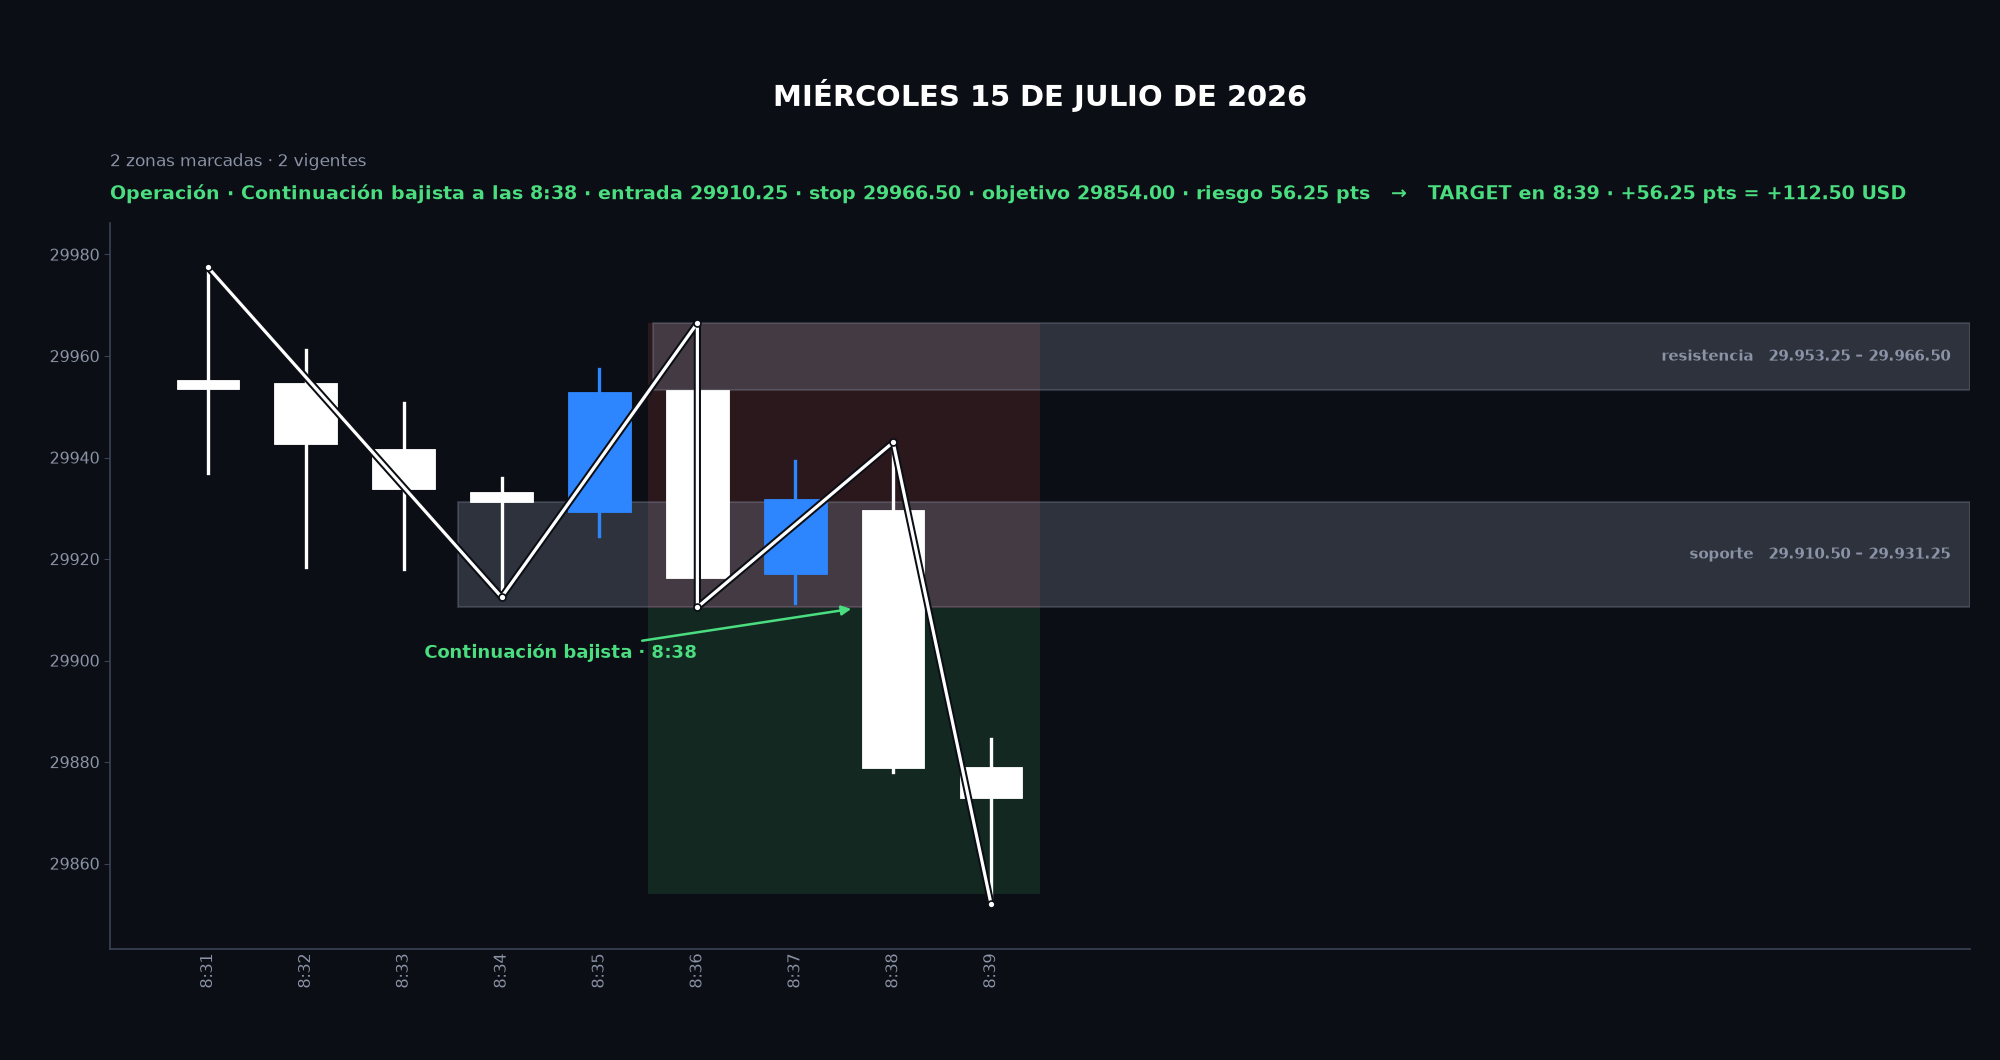
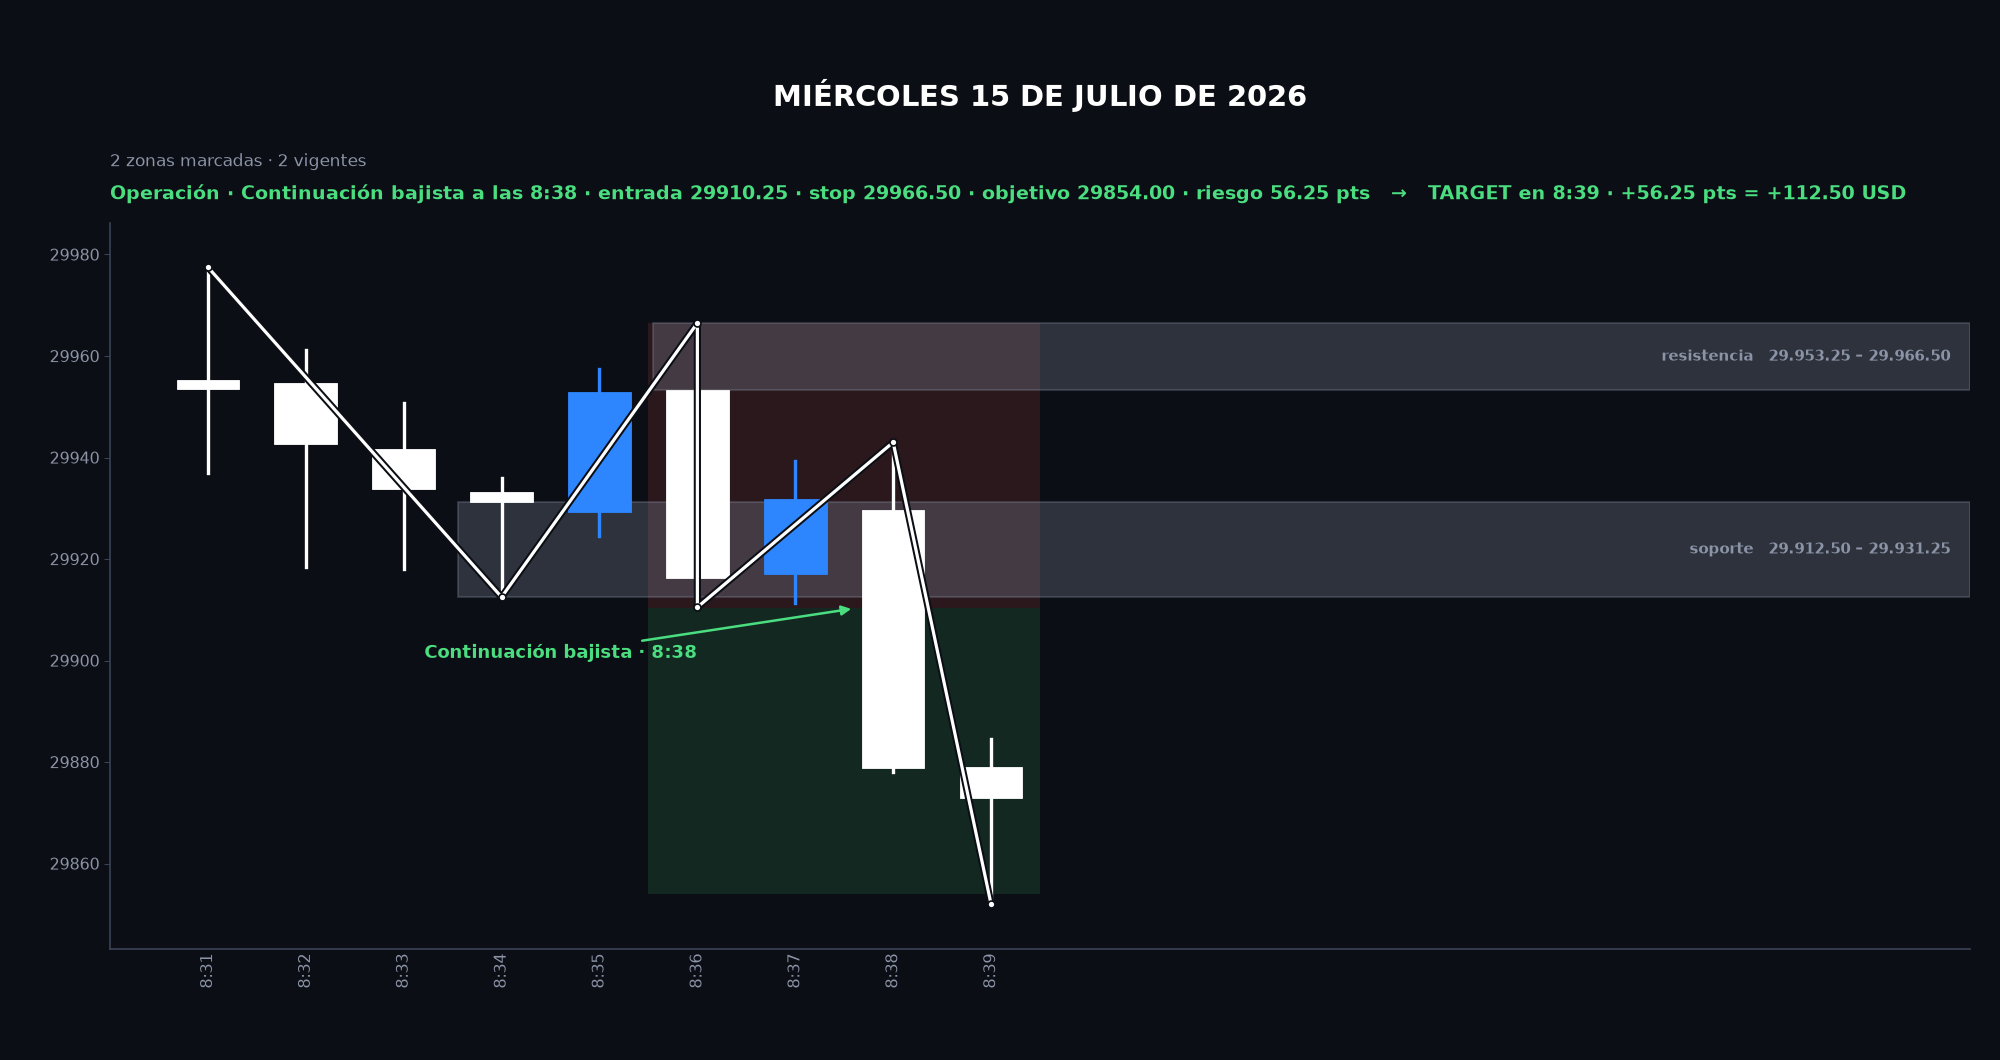
chore(sesiones): el 12 de octubre, y los gráficos que cambian con el arreglo del motor

Changed region(s): [[0.465, 0.5604, 0.992, 0.5915], [0.217, 0.5604, 0.434, 0.5915], [0.837, 0.4981, 0.992, 0.5292]]

diff --git a/docs/historial-proyecto.md b/docs/historial-proyecto.md
@@ -11,6 +11,7 @@
 
 | Fecha | Checkpoint |
 |---|---|
+| 2026-11-02c | El 12/10 en la galería; el motor ya no marca zona antes de una consecución que llega en la misma vela |
 | 2026-11-02b | Backtesting de octubre (1–9/10) en la galería; dos reglas de zonas (plan 3.55 y 3.58) y las gráficas del bot, intocables |
 | 2026-11-02 | La lupa: la fecha y la ficha, pegadas al gráfico |
 | 2026-10-30 | La Curva de Equity gana el ancho de la derecha: el valor final va dentro y busca sitio |
@@ -67,6 +68,22 @@
 | 2026-08-16c | Navegación: 6 botones y la pantalla "Otros" |
 | 2026-08-16b | Reestructuración documental |
 | 2026-08-16 | Sesión Operativa: tres pantallas en una |
+
+---
+
+## Checkpoint 2026-11-02c — El 12/10, y la consecución en la misma vela
+
+- **El 12/10, NO OPERA, en la galería** (plan 3.60). Kris: a las 9:06 no hay soporte; es un rompimiento, y la vela
+  siguiente su consecución.
+- **El motor marcaba ese soporte** porque resolvía la consecución de la vela 9:07 antes de leer su vuelta. La vela es
+  blanca: primero sube (la vuelta que confirma la zona) y luego baja (la consecución). Ahora la zona `Zona.consec_en`
+  guarda la vela y el sentido de su consecución, y `anadir` la trata como pendiente si la vuelta llegó antes por el
+  color. El plan ya lo decía; **el texto no cambia**. En `lector.py` y `MotorChaumer.cs` a la vez.
+- En 84 días cambian zonas en 16 y **una operación**: el 3/08 (fuera de la galería), de TARGET +34,25 a STOP −24,50.
+  Redibujados en `05_Backtesting/claude/` los que cambian: 6/07, 15/07, 15/09, 2/10 y 12/10. Las gráficas del bot, no.
+
+**Verificado:** `sincronia.py --sellar --cambio-de-regla` a 0 diferencias entre motores (82 días); las operaciones de
+la galería, iguales; `npm run verificar` del portal sin fallos. Kris tiene que copiar `MotorChaumer.cs` y F5.
 
 ---
 

diff --git a/chaumer/05_Backtesting/claude/protocolo/DISCREPANCIAS.md b/chaumer/05_Backtesting/claude/protocolo/DISCREPANCIAS.md
@@ -988,3 +988,25 @@ de la 8:45 (31.214,75 – 31.223,75), que no debe existir, y el reingreso de las
 El retroceso de la 8:41 llega a 31.129,00 y pasa la mitad de la banda (31.126,50) por 2,50: no deja resistencia, y su
 máximo es el stop.
 
+# Lunes 12 de octubre de 2026 — coincidimos: NO OPERA · el motor marcaba un soporte que no existe
+
+> 📝 **Marcada el 02/11/2026**, a ciegas, con el motor del plan 3.59.
+
+**Sin noticias rojas. No es día de Fed.**
+
+**Veredicto: NO OPERA.** Coincide con el operador.
+
+| | |
+|---|---|
+| Primer movimiento | **bajista** (8:31, abre 31.045,25 · cierra 31.020,00) |
+| Premercado | **sin zonas** — la vela más fuerte hizo 3.858 contratos |
+| Fluidez bajista | se pierde a las 8:46: la bajada de 8:44 se queda en 30.953,75 y no rompe el soporte de 8:35 (30.936,25 – 30.952,25) |
+| Fluidez alcista | se pierde a las 8:48: la resistencia de 8:40 tampoco se rompe |
+| El otro IRI | el soporte de 9:11 (30.868,75 – 30.880,50), entero por debajo · falla a las 9:15 |
+| Reingresos | 9:16 y 9:22, el objetivo choca · 9:28, punto de referencia |
+
+**La diferencia:** el motor marcaba un soporte sobre la vela 9:06 (30.931,00 – 30.936,25), pegado al de 8:35, y con él
+salía una duda de borde. El operador: *«a las 9:06 no hay ningún soporte, eso simplemente fue un rompimiento, y la
+siguiente vela fue consecución»*. La vela 9:07 es blanca: primero sube y después da la consecución, y el motor leía la
+consecución primero. Arreglado en los dos motores; el día sigue en NO OPERA.
+
